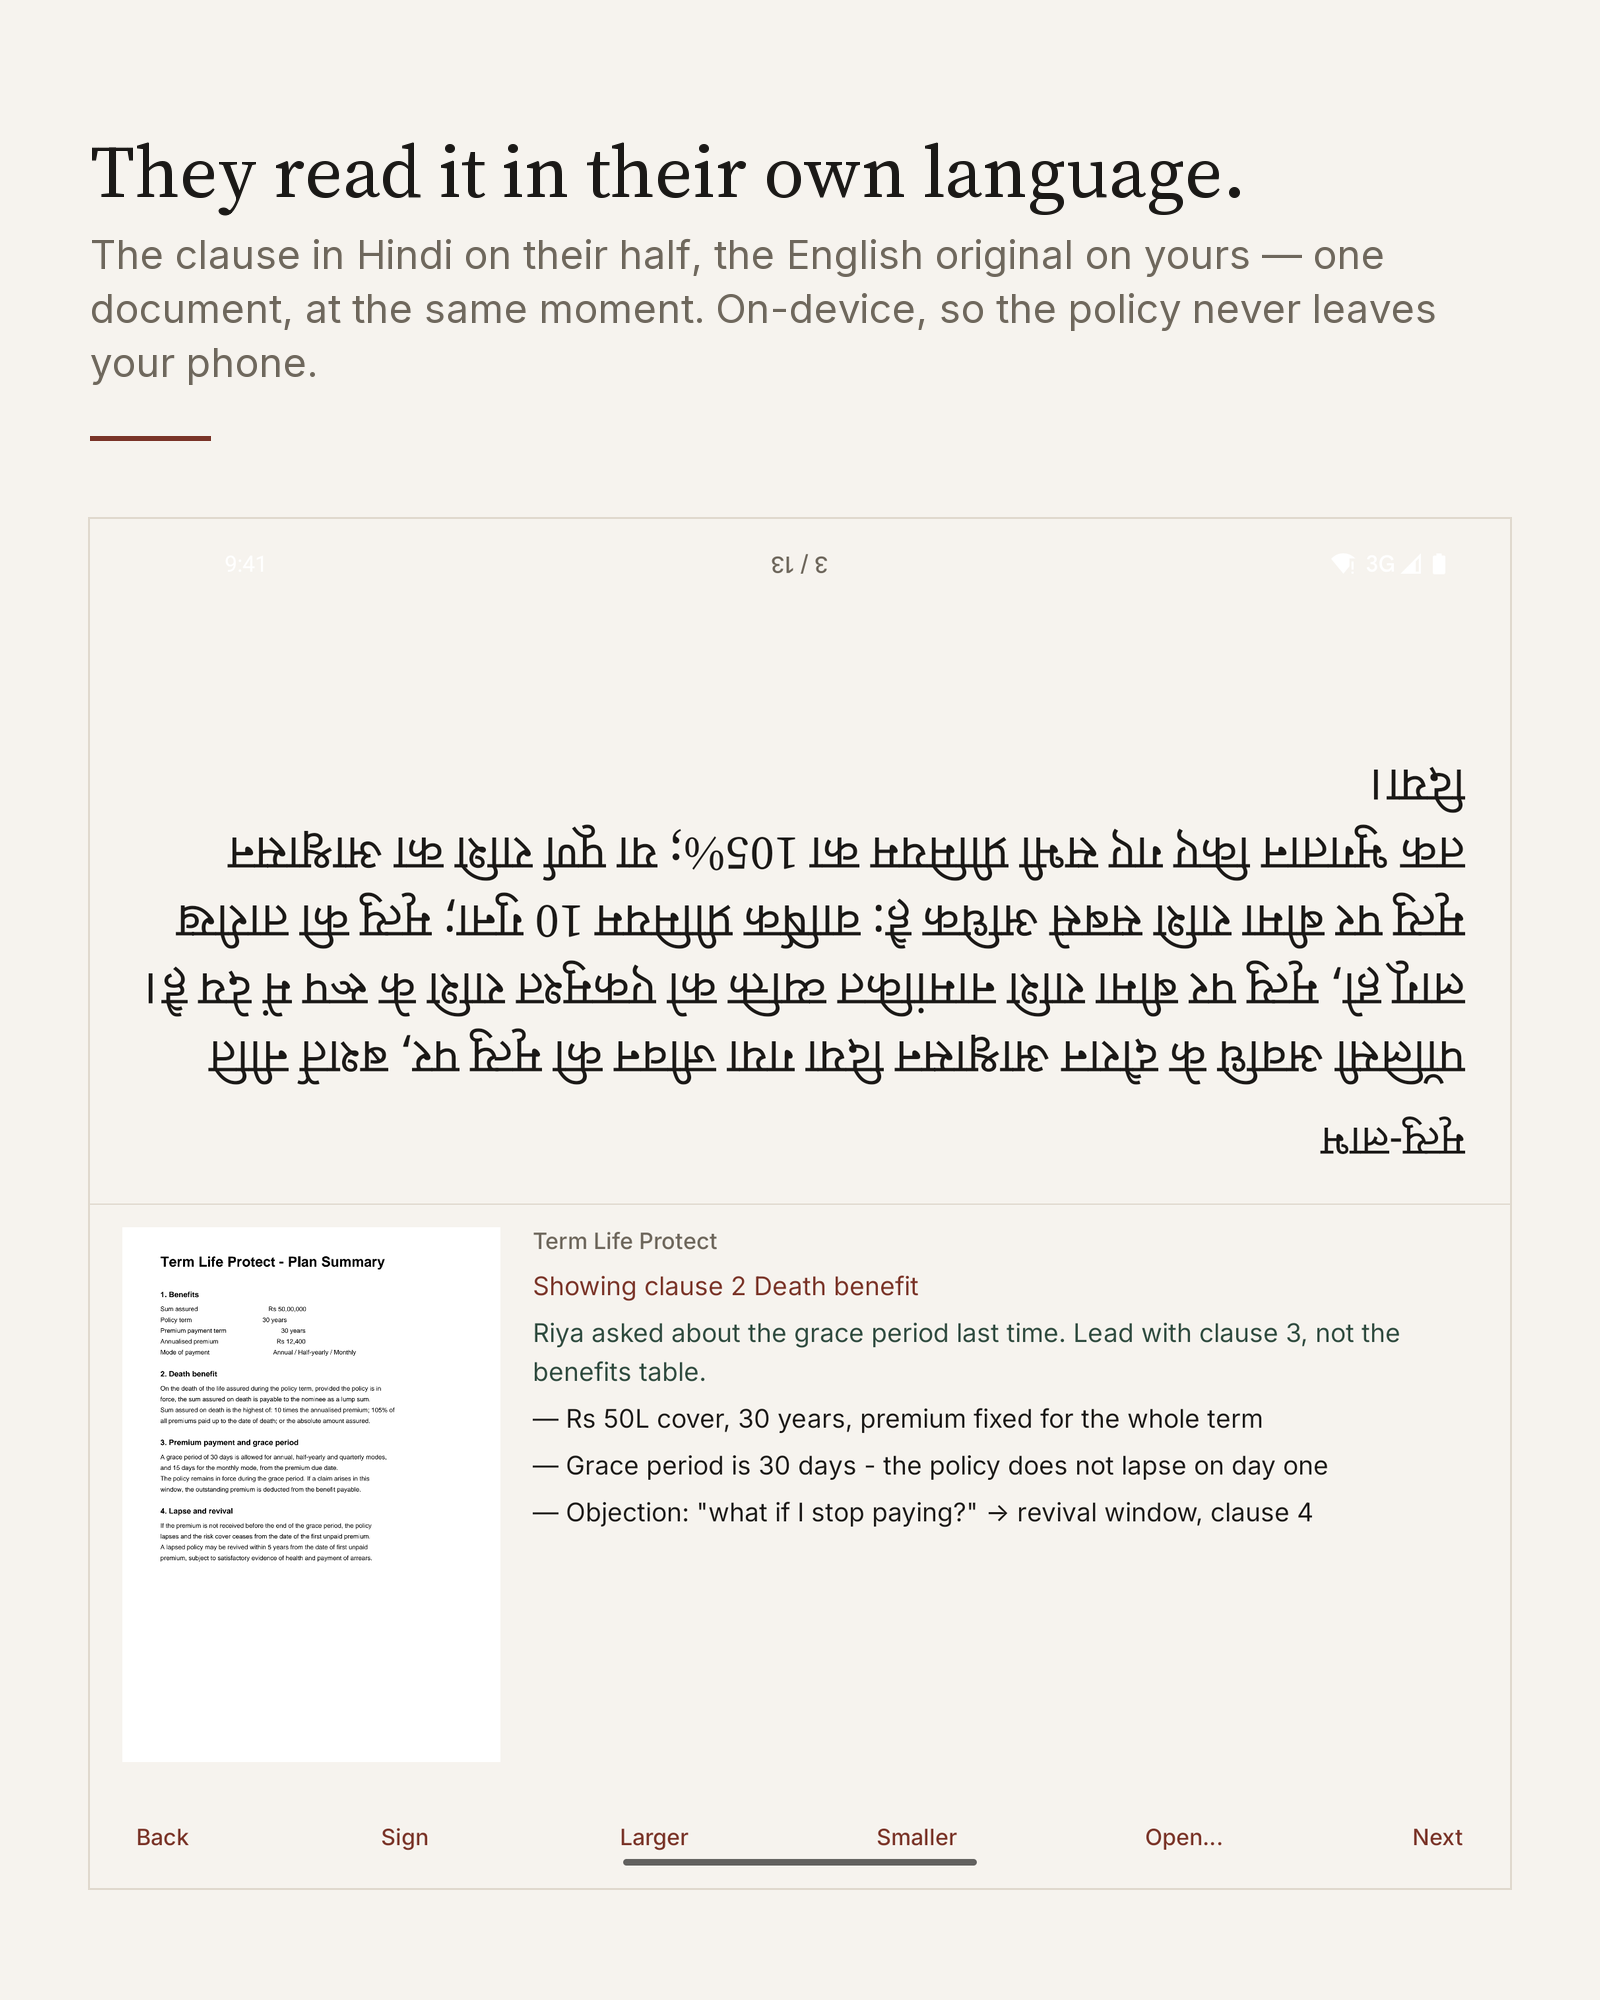
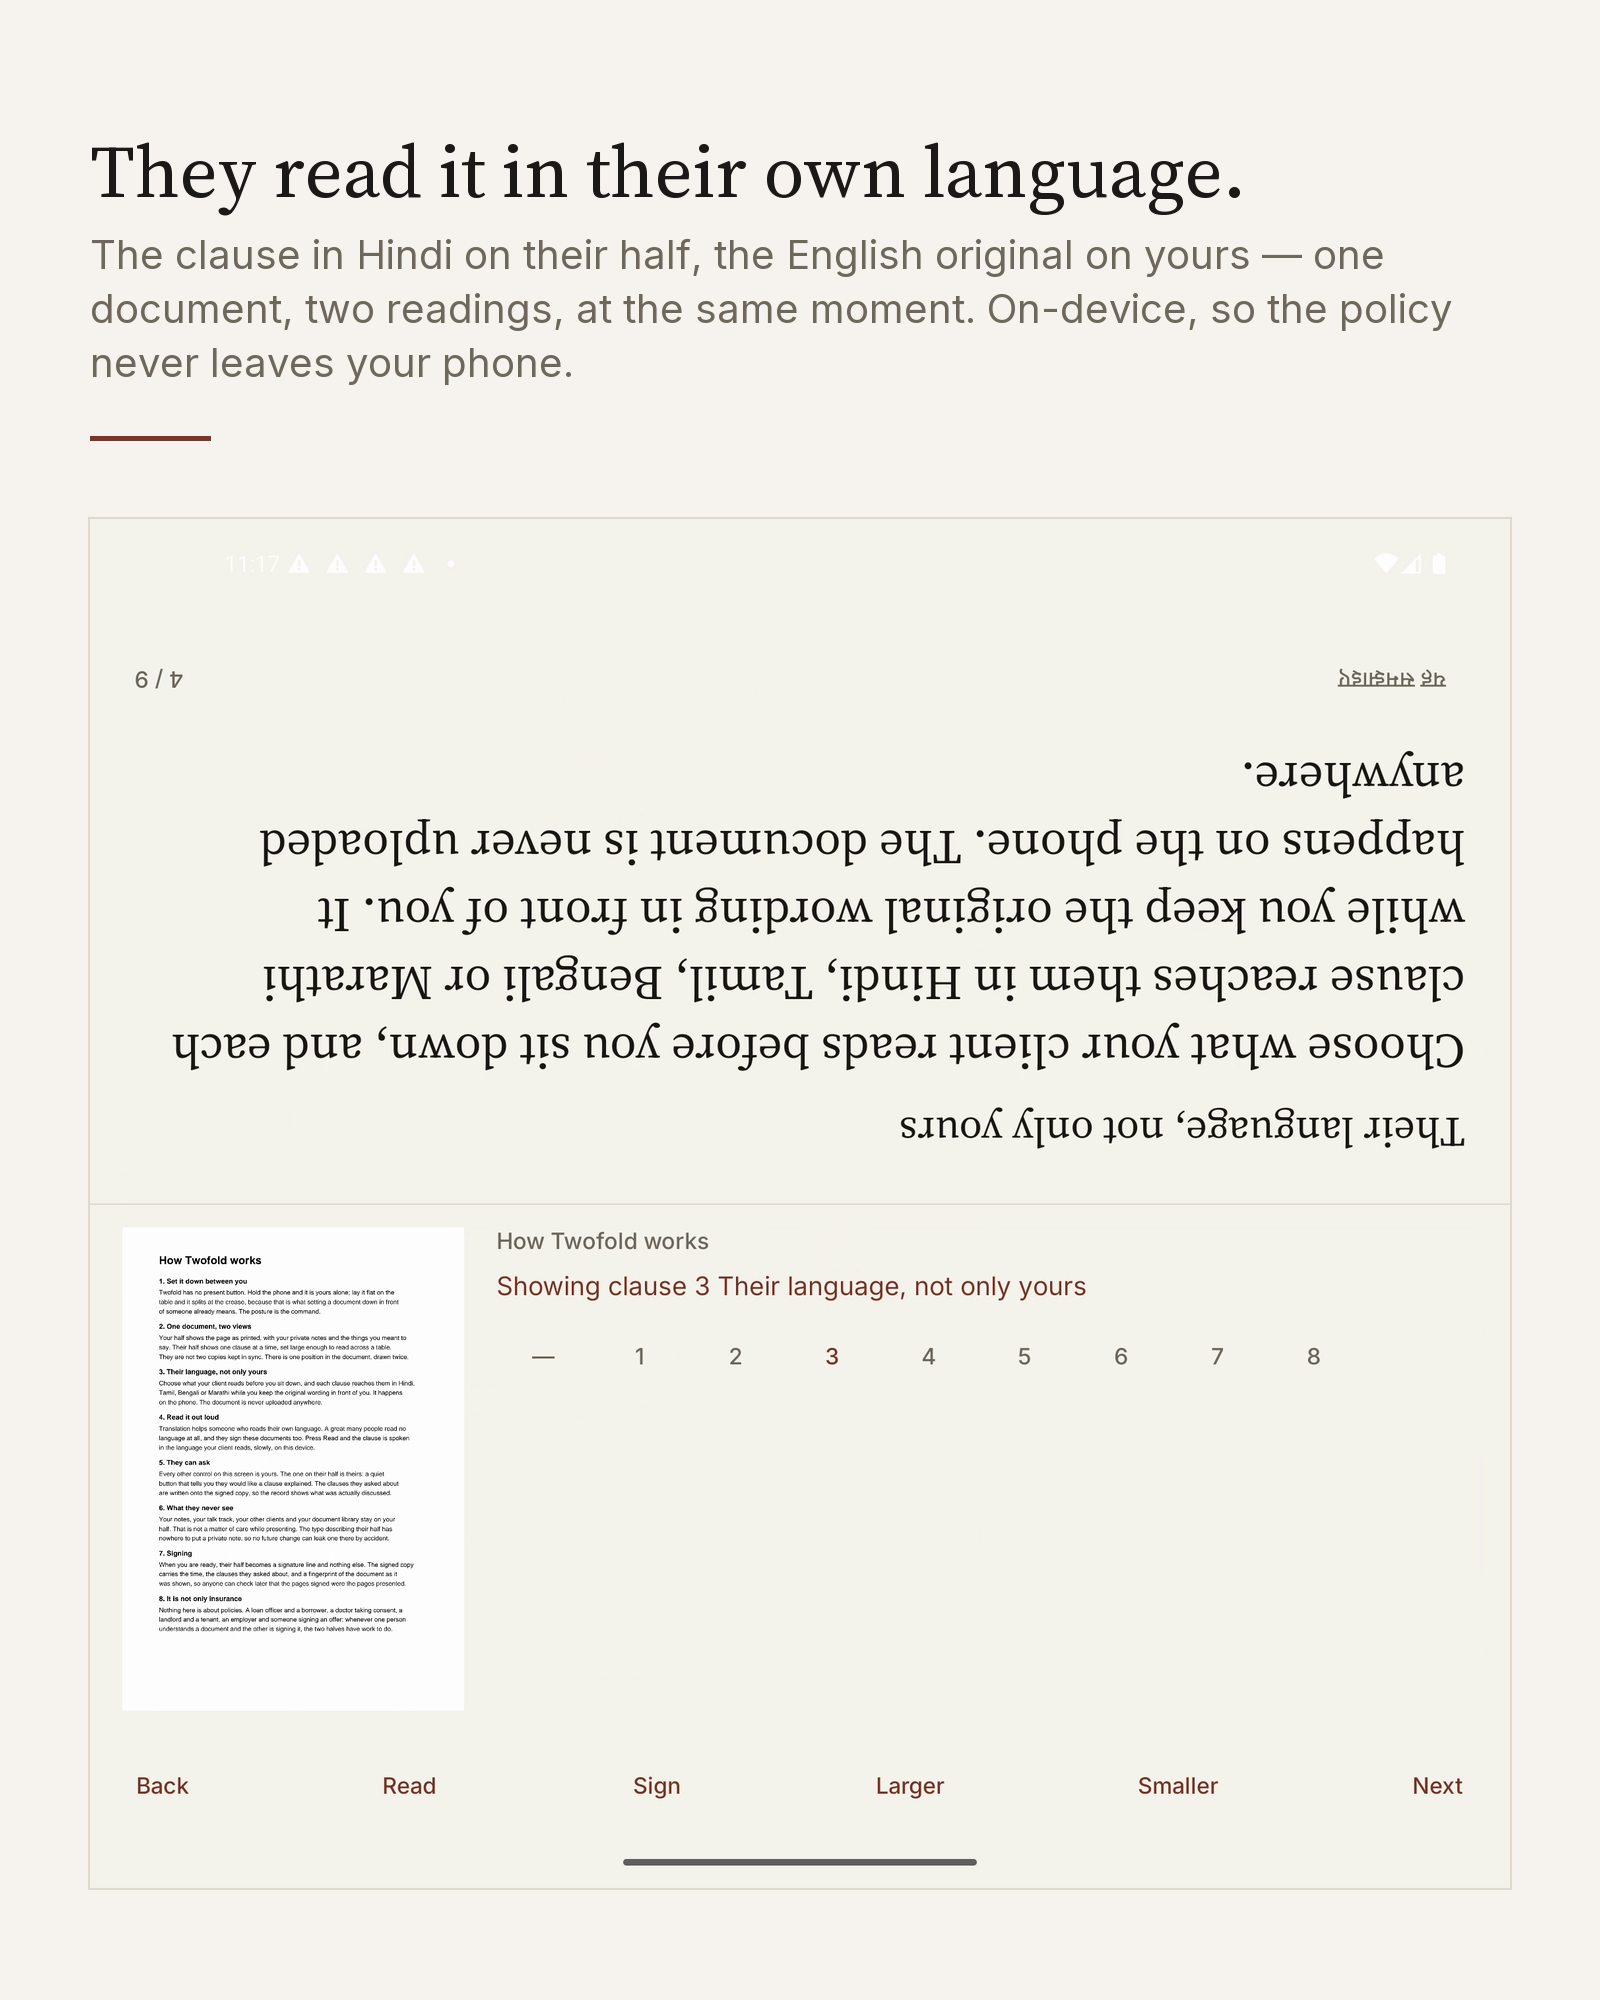
Reshoot the store screenshots, and add the posture that was missing
The set predated Flex Mode, the clause jump strip and the eight
languages, so the listing was showing less of the app than exists — and
store quality is part of what the Galaxy category scores.

Five shots now, all from the new footage: the clause in Hindi beside the
English original, the two halves with the jump strip visible, half-open
on a desk, the client's own button, and the signature. The Flex Mode
shot is new and matters most of the five: it is the posture that is
hardest to explain in words and the one nothing else in the store does.

That shot was recomposed from a fresh capture rather than the video.
The frame from the take read "Downloading the language pack…", which is
true and transient and reads as a loading state in a store listing — the
pack is cached after the first download, so a later capture settles to
"Ready — your client will read this in their language, offline", which
is the sentence worth showing.

diff --git a/docs/store/LISTING.md b/docs/store/LISTING.md
@@ -104,10 +104,10 @@ privacy policy, which a reviewer will read alongside it. The accurate answer is:
 | File | Size | Use |
 |---|---|---|
 | `01-own-language.png` | 1600×2000 | Screenshot 1 — the clause in the client's language |
-| `02-two-sided.png` | 1600×2000 | Screenshot 2 — the two halves |
-| `03-prepare.png` | 1600×2000 | Screenshot 3 — setting up before the meeting |
-| `04-signature.png` | 1600×2000 | Screenshot 4 — signing |
-| `05-they-can-ask.png` | 1600×2000 | Screenshot 5 — the client's own button |
+| `02-two-sided.png` | 1600×2000 | Screenshot 2 — the two halves, with the clause jump strip |
+| `03-flex-mode.png` | 1600×2000 | Screenshot 3 — half-open on a desk, the third posture |
+| `04-they-can-ask.png` | 1600×2000 | Screenshot 4 — the client's own button |
+| `05-signature.png` | 1600×2000 | Screenshot 5 — signing |
 | `promo-16x9.png` | 1920×1080 | Promotional graphic |
 | `icon-512.png` | 512×512 | Galaxy Store icon |
 | `icon-1024.png` | 1024×1024 | Devpost submission icon (required size) |
